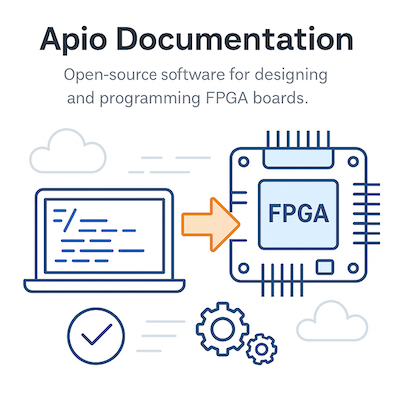
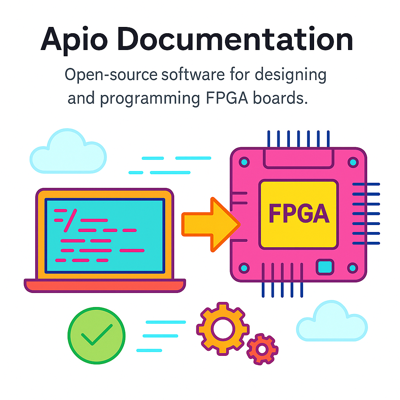
Updated the main page illustration.

diff --git a/docs/index.md b/docs/index.md
@@ -2,7 +2,7 @@
 
 ![](assets/apio-illustration.png)
 
-**Apio** is an easy-to-install, open-source application that simplifies FPGA development. It provides simple commands such as:
+**Apio** is an **easy-to-install** and **easy-to-use** open-source application that simplifies FPGA development. It provides simple commands such as:
 
 - `apio lint` – to verify the code  
 - `apio sim` – to simulate the design  
